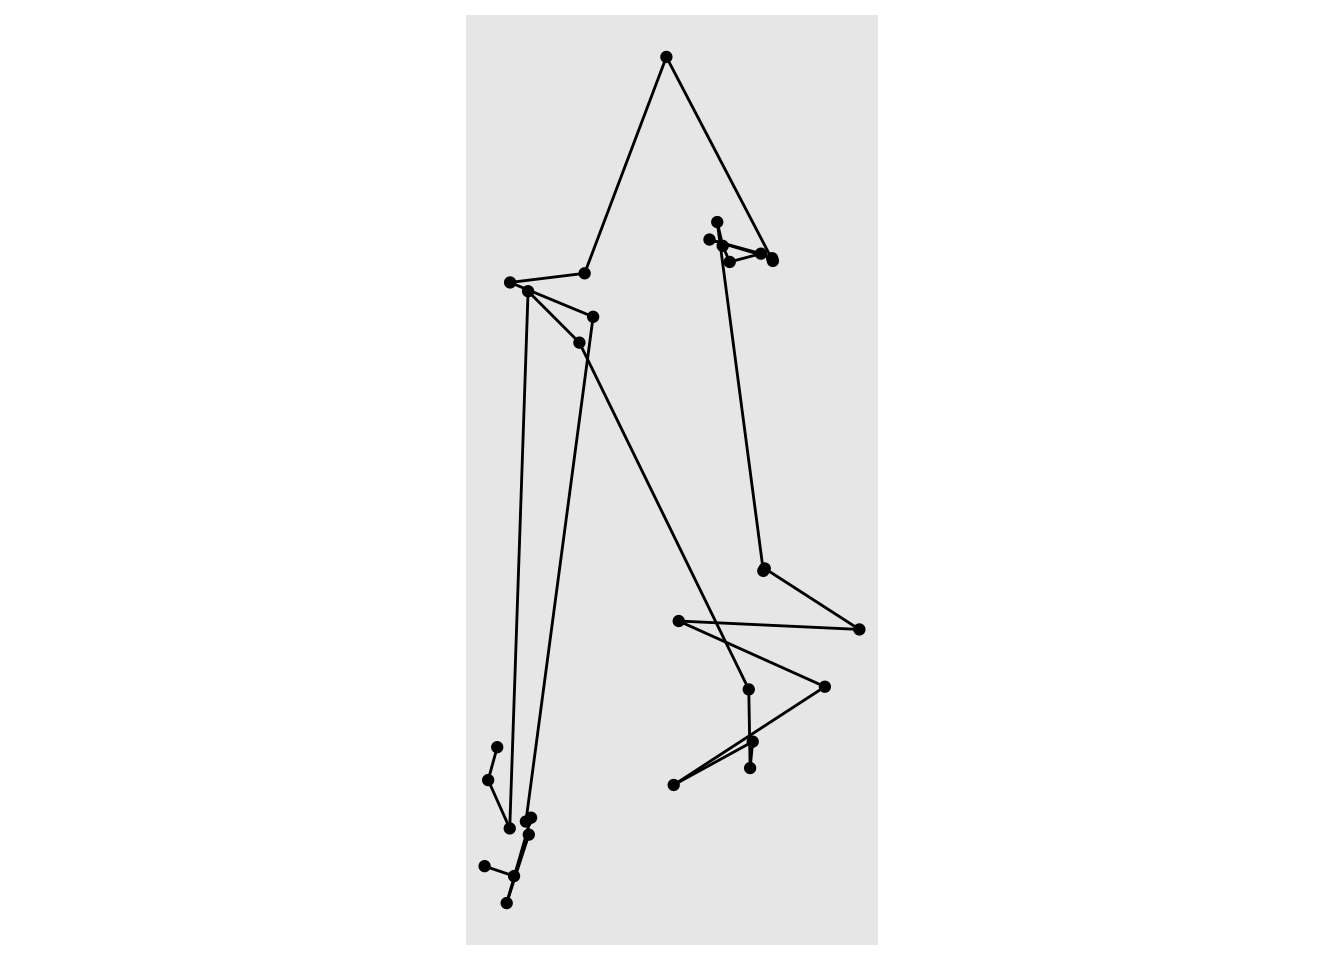
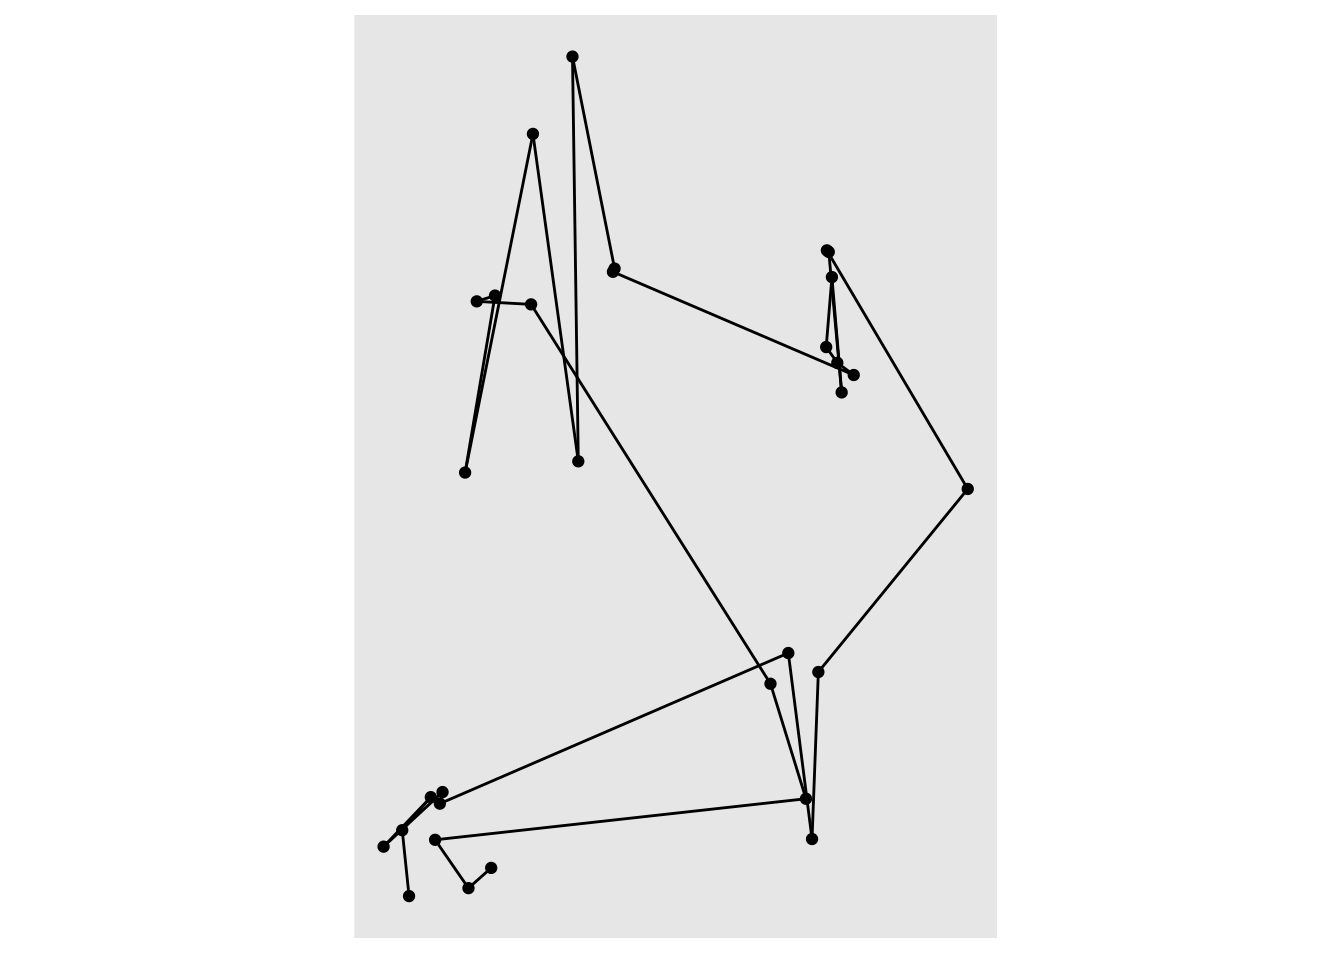
fixing coord issue

diff --git a/phd-journal/_book/network-experiment.html b/phd-journal/_book/network-experiment.html
@@ -414,23 +414,38 @@ pre > code.sourceCode > span > a:first-child::before { text-decoration: underlin
 <span id="cb22-7"><a href="#cb22-7" aria-hidden="true" tabindex="-1"></a>ke_car027 <span class="ot">&lt;-</span> locations <span class="sc">|&gt;</span> </span>
 <span id="cb22-8"><a href="#cb22-8" aria-hidden="true" tabindex="-1"></a>  <span class="fu">filter</span>(animal_id <span class="sc">==</span> <span class="st">"KE_car027"</span>) <span class="sc">|&gt;</span> </span>
 <span id="cb22-9"><a href="#cb22-9" aria-hidden="true" tabindex="-1"></a>  <span class="fu">mutate</span>(<span class="at">event_id =</span> <span class="fu">as.character</span>(event_id)) <span class="sc">|&gt;</span> </span>
-<span id="cb22-10"><a href="#cb22-10" aria-hidden="true" tabindex="-1"></a>  <span class="fu">arrange</span>(animal_id, timestamp)</span></code><button title="Copy to Clipboard" class="code-copy-button"><i class="bi"></i></button></pre></div>
+<span id="cb22-10"><a href="#cb22-10" aria-hidden="true" tabindex="-1"></a>  <span class="fu">arrange</span>(animal_id, timestamp)</span>
+<span id="cb22-11"><a href="#cb22-11" aria-hidden="true" tabindex="-1"></a></span>
+<span id="cb22-12"><a href="#cb22-12" aria-hidden="true" tabindex="-1"></a>multiple_car <span class="ot">&lt;-</span> locations <span class="sc">|&gt;</span> </span>
+<span id="cb22-13"><a href="#cb22-13" aria-hidden="true" tabindex="-1"></a>  <span class="fu">filter</span>(animal_id <span class="sc">%in%</span> keep) <span class="sc">|&gt;</span> </span>
+<span id="cb22-14"><a href="#cb22-14" aria-hidden="true" tabindex="-1"></a>  <span class="fu">mutate</span>(<span class="at">event_id =</span> <span class="fu">as.character</span>(event_id)) <span class="sc">|&gt;</span> </span>
+<span id="cb22-15"><a href="#cb22-15" aria-hidden="true" tabindex="-1"></a>  <span class="fu">arrange</span>(animal_id, timestamp)</span></code><button title="Copy to Clipboard" class="code-copy-button"><i class="bi"></i></button></pre></div>
 </div>
 <p>Apparently, if the id column is double when joining the data using <code>sfnetwork</code>, R crashes. Since the event_id is “2282779430” storing it as double is too large. (this took me a long time to figure out)</p>
 <div class="cell">
-<div class="sourceCode cell-code" id="cb23"><pre class="sourceCode r code-with-copy"><code class="sourceCode r"><span id="cb23-1"><a href="#cb23-1" aria-hidden="true" tabindex="-1"></a>nodes <span class="ot">&lt;-</span> ke_car027 <span class="sc">|&gt;</span> </span>
+<div class="sourceCode cell-code" id="cb23"><pre class="sourceCode r code-with-copy"><code class="sourceCode r"><span id="cb23-1"><a href="#cb23-1" aria-hidden="true" tabindex="-1"></a>nodes <span class="ot">&lt;-</span> multiple_car <span class="sc">|&gt;</span> </span>
 <span id="cb23-2"><a href="#cb23-2" aria-hidden="true" tabindex="-1"></a>  <span class="fu">select</span>(event_id, latitude, longitude, season) <span class="sc">|&gt;</span> </span>
 <span id="cb23-3"><a href="#cb23-3" aria-hidden="true" tabindex="-1"></a>  <span class="fu">rename</span>(<span class="at">id =</span> event_id)</span>
 <span id="cb23-4"><a href="#cb23-4" aria-hidden="true" tabindex="-1"></a></span>
-<span id="cb23-5"><a href="#cb23-5" aria-hidden="true" tabindex="-1"></a>edges <span class="ot">&lt;-</span> ke_car027 <span class="sc">|&gt;</span> </span>
+<span id="cb23-5"><a href="#cb23-5" aria-hidden="true" tabindex="-1"></a>edges <span class="ot">&lt;-</span> multiple_car <span class="sc">|&gt;</span> </span>
 <span id="cb23-6"><a href="#cb23-6" aria-hidden="true" tabindex="-1"></a>  <span class="fu">select</span>(event_id, timestamp) <span class="sc">|&gt;</span> </span>
 <span id="cb23-7"><a href="#cb23-7" aria-hidden="true" tabindex="-1"></a>  <span class="fu">mutate</span>(<span class="at">to =</span> <span class="fu">lead</span>(event_id)) <span class="sc">|&gt;</span> </span>
 <span id="cb23-8"><a href="#cb23-8" aria-hidden="true" tabindex="-1"></a>  <span class="fu">rename</span>(<span class="at">from =</span> event_id) <span class="sc">|&gt;</span> </span>
-<span id="cb23-9"><a href="#cb23-9" aria-hidden="true" tabindex="-1"></a>  <span class="fu">filter</span>(<span class="sc">!</span><span class="fu">is.na</span>(to))</span></code><button title="Copy to Clipboard" class="code-copy-button"><i class="bi"></i></button></pre></div>
+<span id="cb23-9"><a href="#cb23-9" aria-hidden="true" tabindex="-1"></a>  <span class="fu">filter</span>(<span class="sc">!</span><span class="fu">is.na</span>(to))</span>
+<span id="cb23-10"><a href="#cb23-10" aria-hidden="true" tabindex="-1"></a></span>
+<span id="cb23-11"><a href="#cb23-11" aria-hidden="true" tabindex="-1"></a>nodes_ke <span class="ot">&lt;-</span> ke_car027 <span class="sc">|&gt;</span> </span>
+<span id="cb23-12"><a href="#cb23-12" aria-hidden="true" tabindex="-1"></a>  <span class="fu">select</span>(event_id, latitude, longitude, season) <span class="sc">|&gt;</span> </span>
+<span id="cb23-13"><a href="#cb23-13" aria-hidden="true" tabindex="-1"></a>  <span class="fu">rename</span>(<span class="at">id =</span> event_id)</span>
+<span id="cb23-14"><a href="#cb23-14" aria-hidden="true" tabindex="-1"></a></span>
+<span id="cb23-15"><a href="#cb23-15" aria-hidden="true" tabindex="-1"></a>edges_ke <span class="ot">&lt;-</span> ke_car027 <span class="sc">|&gt;</span> </span>
+<span id="cb23-16"><a href="#cb23-16" aria-hidden="true" tabindex="-1"></a>  <span class="fu">select</span>(event_id, timestamp) <span class="sc">|&gt;</span> </span>
+<span id="cb23-17"><a href="#cb23-17" aria-hidden="true" tabindex="-1"></a>  <span class="fu">mutate</span>(<span class="at">to =</span> <span class="fu">lead</span>(event_id)) <span class="sc">|&gt;</span> </span>
+<span id="cb23-18"><a href="#cb23-18" aria-hidden="true" tabindex="-1"></a>  <span class="fu">rename</span>(<span class="at">from =</span> event_id) <span class="sc">|&gt;</span> </span>
+<span id="cb23-19"><a href="#cb23-19" aria-hidden="true" tabindex="-1"></a>  <span class="fu">filter</span>(<span class="sc">!</span><span class="fu">is.na</span>(to))</span></code><button title="Copy to Clipboard" class="code-copy-button"><i class="bi"></i></button></pre></div>
 </div>
 <p>Converting the nodes to the <code>sf</code> object.</p>
 <div class="cell">
-<div class="sourceCode cell-code" id="cb24"><pre class="sourceCode r code-with-copy"><code class="sourceCode r"><span id="cb24-1"><a href="#cb24-1" aria-hidden="true" tabindex="-1"></a>nodes_sf <span class="ot">&lt;-</span> <span class="fu">st_as_sf</span>(nodes, <span class="at">coords =</span> <span class="fu">c</span>(<span class="st">"latitude"</span>, <span class="st">"longitude"</span>), <span class="at">crs =</span> <span class="fu">st_crs</span>(<span class="dv">4326</span>))</span>
+<div class="sourceCode cell-code" id="cb24"><pre class="sourceCode r code-with-copy"><code class="sourceCode r"><span id="cb24-1"><a href="#cb24-1" aria-hidden="true" tabindex="-1"></a>nodes_sf <span class="ot">&lt;-</span> <span class="fu">st_as_sf</span>(nodes, <span class="at">coords =</span> <span class="fu">c</span>(<span class="st">"longitude"</span>, <span class="st">"latitude"</span>), <span class="at">crs =</span> <span class="fu">st_crs</span>(<span class="dv">4326</span>))</span>
 <span id="cb24-2"><a href="#cb24-2" aria-hidden="true" tabindex="-1"></a></span>
 <span id="cb24-3"><a href="#cb24-3" aria-hidden="true" tabindex="-1"></a><span class="co"># combining nodes and edges</span></span>
 <span id="cb24-4"><a href="#cb24-4" aria-hidden="true" tabindex="-1"></a>caribou_path <span class="ot">&lt;-</span> <span class="fu">sfnetwork</span>(nodes_sf, edges)</span></code><button title="Copy to Clipboard" class="code-copy-button"><i class="bi"></i></button></pre></div>
@@ -440,30 +455,37 @@ pre > code.sourceCode > span > a:first-child::before { text-decoration: underlin
 <div class="cell-output cell-output-stderr">
 <pre><code>Spatial network structure is valid</code></pre>
 </div>
+<div class="sourceCode cell-code" id="cb27"><pre class="sourceCode r code-with-copy"><code class="sourceCode r"><span id="cb27-1"><a href="#cb27-1" aria-hidden="true" tabindex="-1"></a>nodes_ke_sf <span class="ot">&lt;-</span> <span class="fu">st_as_sf</span>(nodes_ke, <span class="at">coords =</span> <span class="fu">c</span>(<span class="st">"longitude"</span>, <span class="st">"latitude"</span>), <span class="at">crs =</span> <span class="fu">st_crs</span>(<span class="dv">4326</span>))</span>
+<span id="cb27-2"><a href="#cb27-2" aria-hidden="true" tabindex="-1"></a></span>
+<span id="cb27-3"><a href="#cb27-3" aria-hidden="true" tabindex="-1"></a>ke_path <span class="ot">&lt;-</span> <span class="fu">sfnetwork</span>(nodes_ke_sf, edges_ke)</span></code><button title="Copy to Clipboard" class="code-copy-button"><i class="bi"></i></button></pre></div>
+<div class="cell-output cell-output-stderr">
+<pre><code>Checking if spatial network structure is valid...
+Spatial network structure is valid</code></pre>
+</div>
 </div>
 </section>
 <section id="draw-a-plot-using-ggraph" class="level3" data-number="1.3.2">
 <h3 data-number="1.3.2" class="anchored" data-anchor-id="draw-a-plot-using-ggraph"><span class="header-section-number">1.3.2</span> Draw a plot using ggraph</h3>
 <p>The geospatial layout in the ggraph can be specified both as a function or data frame object.</p>
 <div class="cell">
-<div class="sourceCode cell-code" id="cb27"><pre class="sourceCode r code-with-copy"><code class="sourceCode r"><span id="cb27-1"><a href="#cb27-1" aria-hidden="true" tabindex="-1"></a><span class="co"># function way</span></span>
-<span id="cb27-2"><a href="#cb27-2" aria-hidden="true" tabindex="-1"></a>layout_sf <span class="ot">&lt;-</span> <span class="cf">function</span>(graph) {</span>
-<span id="cb27-3"><a href="#cb27-3" aria-hidden="true" tabindex="-1"></a>  graph <span class="ot">&lt;-</span> <span class="fu">activate</span>(graph, nodes)</span>
-<span id="cb27-4"><a href="#cb27-4" aria-hidden="true" tabindex="-1"></a>  x <span class="ot">&lt;-</span> sf<span class="sc">::</span><span class="fu">st_coordinates</span>(graph)[, <span class="st">"X"</span>]</span>
-<span id="cb27-5"><a href="#cb27-5" aria-hidden="true" tabindex="-1"></a>  y <span class="ot">&lt;-</span> sf<span class="sc">::</span><span class="fu">st_coordinates</span>(graph)[, <span class="st">"Y"</span>]</span>
-<span id="cb27-6"><a href="#cb27-6" aria-hidden="true" tabindex="-1"></a>  <span class="fu">data.frame</span>(x, y)</span>
-<span id="cb27-7"><a href="#cb27-7" aria-hidden="true" tabindex="-1"></a>}</span>
-<span id="cb27-8"><a href="#cb27-8" aria-hidden="true" tabindex="-1"></a></span>
-<span id="cb27-9"><a href="#cb27-9" aria-hidden="true" tabindex="-1"></a><span class="co"># data frame way</span></span>
-<span id="cb27-10"><a href="#cb27-10" aria-hidden="true" tabindex="-1"></a>x <span class="ot">&lt;-</span> sf<span class="sc">::</span><span class="fu">st_coordinates</span>(caribou_path)[, <span class="st">"X"</span>]</span>
-<span id="cb27-11"><a href="#cb27-11" aria-hidden="true" tabindex="-1"></a>y <span class="ot">&lt;-</span> sf<span class="sc">::</span><span class="fu">st_coordinates</span>(caribou_path)[, <span class="st">"Y"</span>]</span>
-<span id="cb27-12"><a href="#cb27-12" aria-hidden="true" tabindex="-1"></a>layout <span class="ot">&lt;-</span> <span class="fu">data.frame</span>(x, y)</span></code><button title="Copy to Clipboard" class="code-copy-button"><i class="bi"></i></button></pre></div>
+<div class="sourceCode cell-code" id="cb29"><pre class="sourceCode r code-with-copy"><code class="sourceCode r"><span id="cb29-1"><a href="#cb29-1" aria-hidden="true" tabindex="-1"></a><span class="co"># function way</span></span>
+<span id="cb29-2"><a href="#cb29-2" aria-hidden="true" tabindex="-1"></a>layout_sf <span class="ot">&lt;-</span> <span class="cf">function</span>(graph) {</span>
+<span id="cb29-3"><a href="#cb29-3" aria-hidden="true" tabindex="-1"></a>  graph <span class="ot">&lt;-</span> <span class="fu">activate</span>(graph, nodes)</span>
+<span id="cb29-4"><a href="#cb29-4" aria-hidden="true" tabindex="-1"></a>  x <span class="ot">&lt;-</span> sf<span class="sc">::</span><span class="fu">st_coordinates</span>(graph)[, <span class="st">"X"</span>]</span>
+<span id="cb29-5"><a href="#cb29-5" aria-hidden="true" tabindex="-1"></a>  y <span class="ot">&lt;-</span> sf<span class="sc">::</span><span class="fu">st_coordinates</span>(graph)[, <span class="st">"Y"</span>]</span>
+<span id="cb29-6"><a href="#cb29-6" aria-hidden="true" tabindex="-1"></a>  <span class="fu">data.frame</span>(x, y)</span>
+<span id="cb29-7"><a href="#cb29-7" aria-hidden="true" tabindex="-1"></a>}</span>
+<span id="cb29-8"><a href="#cb29-8" aria-hidden="true" tabindex="-1"></a></span>
+<span id="cb29-9"><a href="#cb29-9" aria-hidden="true" tabindex="-1"></a><span class="co"># data frame way</span></span>
+<span id="cb29-10"><a href="#cb29-10" aria-hidden="true" tabindex="-1"></a>x <span class="ot">&lt;-</span> sf<span class="sc">::</span><span class="fu">st_coordinates</span>(ke_path)[, <span class="st">"X"</span>]</span>
+<span id="cb29-11"><a href="#cb29-11" aria-hidden="true" tabindex="-1"></a>y <span class="ot">&lt;-</span> sf<span class="sc">::</span><span class="fu">st_coordinates</span>(ke_path)[, <span class="st">"Y"</span>]</span>
+<span id="cb29-12"><a href="#cb29-12" aria-hidden="true" tabindex="-1"></a>layout <span class="ot">&lt;-</span> <span class="fu">data.frame</span>(x, y)</span></code><button title="Copy to Clipboard" class="code-copy-button"><i class="bi"></i></button></pre></div>
 </div>
 <p>The layout argument can be switched between the function and data frame.</p>
 <div class="cell">
-<div class="sourceCode cell-code" id="cb28"><pre class="sourceCode r code-with-copy"><code class="sourceCode r"><span id="cb28-1"><a href="#cb28-1" aria-hidden="true" tabindex="-1"></a><span class="fu">ggraph</span>(caribou_path, <span class="at">layout =</span> layout_sf) <span class="sc">+</span></span>
-<span id="cb28-2"><a href="#cb28-2" aria-hidden="true" tabindex="-1"></a>  <span class="fu">geom_node_point</span>(<span class="at">size =</span> <span class="fl">0.5</span>) <span class="sc">+</span></span>
-<span id="cb28-3"><a href="#cb28-3" aria-hidden="true" tabindex="-1"></a>  <span class="fu">geom_edge_link</span>(<span class="at">arrow =</span> <span class="fu">arrow</span>(<span class="at">length =</span> <span class="fu">unit</span>(<span class="fl">0.1</span>, <span class="st">"inches"</span>)))</span></code><button title="Copy to Clipboard" class="code-copy-button"><i class="bi"></i></button></pre></div>
+<div class="sourceCode cell-code" id="cb30"><pre class="sourceCode r code-with-copy"><code class="sourceCode r"><span id="cb30-1"><a href="#cb30-1" aria-hidden="true" tabindex="-1"></a><span class="fu">ggraph</span>(ke_path, <span class="at">layout =</span> layout_sf) <span class="sc">+</span></span>
+<span id="cb30-2"><a href="#cb30-2" aria-hidden="true" tabindex="-1"></a>  <span class="fu">geom_node_point</span>(<span class="at">size =</span> <span class="fl">0.5</span>) <span class="sc">+</span></span>
+<span id="cb30-3"><a href="#cb30-3" aria-hidden="true" tabindex="-1"></a>  <span class="fu">geom_edge_link</span>(<span class="at">arrow =</span> <span class="fu">arrow</span>(<span class="at">length =</span> <span class="fu">unit</span>(<span class="fl">0.1</span>, <span class="st">"inches"</span>)))</span></code><button title="Copy to Clipboard" class="code-copy-button"><i class="bi"></i></button></pre></div>
 <div class="cell-output-display">
 <div>
 <figure class="figure">
@@ -474,13 +496,9 @@ pre > code.sourceCode > span > a:first-child::before { text-decoration: underlin
 </div>
 <p>Using the <code>sf</code> layout.</p>
 <div class="cell">
-<div class="sourceCode cell-code" id="cb29"><pre class="sourceCode r code-with-copy"><code class="sourceCode r"><span id="cb29-1"><a href="#cb29-1" aria-hidden="true" tabindex="-1"></a><span class="fu">ggraph</span>(caribou_path, <span class="at">layout =</span> <span class="st">'sf'</span>) <span class="sc">+</span></span>
-<span id="cb29-2"><a href="#cb29-2" aria-hidden="true" tabindex="-1"></a>  <span class="fu">geom_node_sf</span>() <span class="sc">+</span></span>
-<span id="cb29-3"><a href="#cb29-3" aria-hidden="true" tabindex="-1"></a>  <span class="fu">geom_edge_link</span>()</span></code><button title="Copy to Clipboard" class="code-copy-button"><i class="bi"></i></button></pre></div>
-<div class="cell-output cell-output-stderr">
-<pre><code>Warning in st_is_longlat(x): bounding box has potentially an invalid value
-range for longlat data</code></pre>
-</div>
+<div class="sourceCode cell-code" id="cb31"><pre class="sourceCode r code-with-copy"><code class="sourceCode r"><span id="cb31-1"><a href="#cb31-1" aria-hidden="true" tabindex="-1"></a><span class="fu">ggraph</span>(ke_path, <span class="at">layout =</span> <span class="st">'sf'</span>) <span class="sc">+</span></span>
+<span id="cb31-2"><a href="#cb31-2" aria-hidden="true" tabindex="-1"></a>  <span class="fu">geom_node_sf</span>() <span class="sc">+</span></span>
+<span id="cb31-3"><a href="#cb31-3" aria-hidden="true" tabindex="-1"></a>  <span class="fu">geom_edge_link</span>()</span></code><button title="Copy to Clipboard" class="code-copy-button"><i class="bi"></i></button></pre></div>
 <div class="cell-output-display">
 <div>
 <figure class="figure">
@@ -491,13 +509,15 @@ range for longlat data</code></pre>
 </div>
 <p>Not sure about the warning (need to look further). Intuitively, I should be able to overlay this onto the map.</p>
 <div class="cell">
-<div class="sourceCode cell-code" id="cb31"><pre class="sourceCode r code-with-copy"><code class="sourceCode r"><span id="cb31-1"><a href="#cb31-1" aria-hidden="true" tabindex="-1"></a><span class="co"># getting world map</span></span>
-<span id="cb31-2"><a href="#cb31-2" aria-hidden="true" tabindex="-1"></a>world <span class="ot">&lt;-</span> rnaturalearth<span class="sc">::</span><span class="fu">ne_countries</span>(<span class="at">scale =</span> <span class="st">"medium"</span>, <span class="at">returnclass =</span> <span class="st">"sf"</span>)</span>
-<span id="cb31-3"><a href="#cb31-3" aria-hidden="true" tabindex="-1"></a></span>
-<span id="cb31-4"><a href="#cb31-4" aria-hidden="true" tabindex="-1"></a><span class="fu">ggraph</span>(caribou_path, <span class="st">'sf'</span>) <span class="sc">+</span></span>
-<span id="cb31-5"><a href="#cb31-5" aria-hidden="true" tabindex="-1"></a>  <span class="fu">geom_sf</span>(<span class="at">data =</span> world) <span class="sc">+</span></span>
-<span id="cb31-6"><a href="#cb31-6" aria-hidden="true" tabindex="-1"></a>  <span class="fu">geom_node_sf</span>() <span class="sc">+</span></span>
-<span id="cb31-7"><a href="#cb31-7" aria-hidden="true" tabindex="-1"></a>  <span class="fu">geom_edge_link</span>()</span></code><button title="Copy to Clipboard" class="code-copy-button"><i class="bi"></i></button></pre></div>
+<div class="sourceCode cell-code" id="cb32"><pre class="sourceCode r code-with-copy"><code class="sourceCode r"><span id="cb32-1"><a href="#cb32-1" aria-hidden="true" tabindex="-1"></a><span class="co"># getting world map</span></span>
+<span id="cb32-2"><a href="#cb32-2" aria-hidden="true" tabindex="-1"></a>world <span class="ot">&lt;-</span> rnaturalearth<span class="sc">::</span><span class="fu">ne_countries</span>(<span class="at">scale =</span> <span class="st">"medium"</span>, <span class="at">returnclass =</span> <span class="st">"sf"</span>)</span>
+<span id="cb32-3"><a href="#cb32-3" aria-hidden="true" tabindex="-1"></a></span>
+<span id="cb32-4"><a href="#cb32-4" aria-hidden="true" tabindex="-1"></a><span class="fu">ggraph</span>(caribou_path, <span class="st">'sf'</span>) <span class="sc">+</span></span>
+<span id="cb32-5"><a href="#cb32-5" aria-hidden="true" tabindex="-1"></a>  <span class="fu">geom_sf</span>(<span class="at">data =</span> canadianmaps<span class="sc">::</span>CD) <span class="sc">+</span></span>
+<span id="cb32-6"><a href="#cb32-6" aria-hidden="true" tabindex="-1"></a>  <span class="fu">geom_node_sf</span>() <span class="sc">+</span></span>
+<span id="cb32-7"><a href="#cb32-7" aria-hidden="true" tabindex="-1"></a>  <span class="fu">geom_edge_link</span>() <span class="sc">+</span></span>
+<span id="cb32-8"><a href="#cb32-8" aria-hidden="true" tabindex="-1"></a>  <span class="fu">theme_grey</span>() <span class="sc">+</span></span>
+<span id="cb32-9"><a href="#cb32-9" aria-hidden="true" tabindex="-1"></a>  <span class="fu">coord_sf</span>(<span class="at">xlim =</span> <span class="fu">c</span>(<span class="sc">-</span><span class="dv">125</span>, <span class="sc">-</span><span class="dv">119</span>), <span class="at">ylim =</span> <span class="fu">c</span>(<span class="dv">54</span>, <span class="dv">56</span>))</span></code><button title="Copy to Clipboard" class="code-copy-button"><i class="bi"></i></button></pre></div>
 <div class="cell-output-display">
 <div>
 <figure class="figure">
@@ -505,10 +525,11 @@ range for longlat data</code></pre>
 </figure>
 </div>
 </div>
-<div class="sourceCode cell-code" id="cb32"><pre class="sourceCode r code-with-copy"><code class="sourceCode r"><span id="cb32-1"><a href="#cb32-1" aria-hidden="true" tabindex="-1"></a><span class="fu">ggraph</span>(caribou_path, <span class="st">'sf'</span>) <span class="sc">+</span></span>
-<span id="cb32-2"><a href="#cb32-2" aria-hidden="true" tabindex="-1"></a>  <span class="fu">geom_polygon</span>(<span class="at">data =</span> <span class="fu">map_data</span>(<span class="st">"world"</span>), <span class="at">mapping =</span> <span class="fu">aes</span>(<span class="at">x =</span> long, <span class="at">y =</span> lat, <span class="at">group =</span> group)) <span class="sc">+</span></span>
-<span id="cb32-3"><a href="#cb32-3" aria-hidden="true" tabindex="-1"></a>  <span class="fu">geom_node_sf</span>() <span class="sc">+</span></span>
-<span id="cb32-4"><a href="#cb32-4" aria-hidden="true" tabindex="-1"></a>  <span class="fu">geom_edge_link</span>()</span></code><button title="Copy to Clipboard" class="code-copy-button"><i class="bi"></i></button></pre></div>
+<div class="sourceCode cell-code" id="cb33"><pre class="sourceCode r code-with-copy"><code class="sourceCode r"><span id="cb33-1"><a href="#cb33-1" aria-hidden="true" tabindex="-1"></a><span class="fu">ggraph</span>(caribou_path, <span class="st">'sf'</span>) <span class="sc">+</span></span>
+<span id="cb33-2"><a href="#cb33-2" aria-hidden="true" tabindex="-1"></a>  <span class="fu">geom_polygon</span>(<span class="at">data =</span> <span class="fu">map_data</span>(<span class="st">"world"</span>), <span class="at">mapping =</span> <span class="fu">aes</span>(<span class="at">x =</span> long, <span class="at">y =</span> lat, <span class="at">group =</span> group)) <span class="sc">+</span></span>
+<span id="cb33-3"><a href="#cb33-3" aria-hidden="true" tabindex="-1"></a>  <span class="fu">geom_node_sf</span>() <span class="sc">+</span></span>
+<span id="cb33-4"><a href="#cb33-4" aria-hidden="true" tabindex="-1"></a>  <span class="fu">geom_edge_link</span>() <span class="sc">+</span></span>
+<span id="cb33-5"><a href="#cb33-5" aria-hidden="true" tabindex="-1"></a>  <span class="fu">theme_grey</span>()</span></code><button title="Copy to Clipboard" class="code-copy-button"><i class="bi"></i></button></pre></div>
 <div class="cell-output-display">
 <div>
 <figure class="figure">
@@ -517,11 +538,11 @@ range for longlat data</code></pre>
 </div>
 </div>
 </div>
-<p>There is a problem with the ggraph where its coordinates do not match with the sf. I will need to figure this out.</p>
+<p>There is a problem with the ggraph where its coordinates do not match with the sf. I will need to figure this out. (It is fixed now.)</p>
 <p>Next step:</p>
 <ol type="1">
-<li>Find why the ggraph and map do not match</li>
-<li>Need to try linestring geometry. Maybe that is the problem</li>
+<li>Need to try linestring geometry.</li>
+<li>Start doing an analysis on the caribou dataset.</li>
 </ol>
 
 
